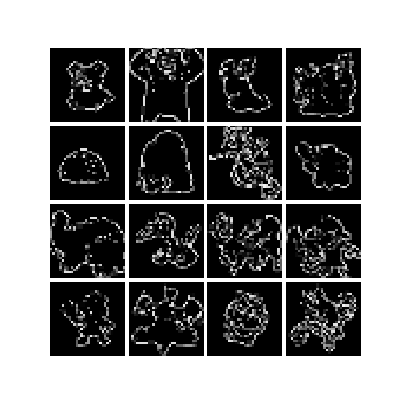
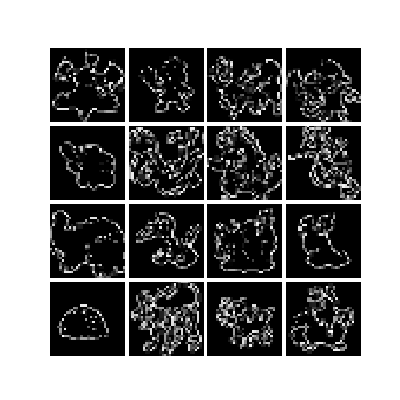
Use DCT as output loss

diff --git a/run.py b/run.py
@@ -1,30 +1,56 @@
 import os, argparse
 import matplotlib.pyplot as plt 
 from keras.models import load_model
+import numpy as np
 
-from image_data import ImageGenerator, plot_multiple
+from image_data import ImageGenerator, plot_multiple, idct_2D
 from models import Im2Im
 
+def get_idct_samples(Y_, shape):
+    Y__ = np.zeros(shape)
+    for i in range(Y_.shape[0]):
+        for j in range(Y_.shape[1]):
+            for k in range(Y_.shape[2]):
+                Y__[i][j][k] = Y_[i][j][k]
+        Y__[i] = idct_2D(Y__[i])
+    
+    return Y__
 
 def run(path_x, path_y, path_y_, path_model, 
-        testing, retrain, grayscale, size, epochs, batch_size):
-
-    shape = (size, size, 1 if grayscale else 3)
-
-    generator_x = ImageGenerator(path_x, batch_size, shape)
-    generator_y = ImageGenerator(path_y, batch_size, shape)
+        testing, retrain, grayscale, size, epochs, batch_size, dct_size):
 
     if testing:
         im2im = load_model(path_model)
+        im2im.summary()
+        print("Saved model loaded:", path_model)
+
+        size = im2im.layers[0].input_shape[1]
+        dct_size = im2im.layers[-1].output_shape[1]
+        input_channels = im2im.layers[0].input_shape[3]
+        output_channels = im2im.layers[-1].output_shape[3]
+
+        in_shape = (size, size, input_channels)
+        out_shape = (dct_size, dct_size, output_channels)
     else:
+        in_shape = (size, size, 1 if grayscale else 3)
+        out_shape = (dct_size, dct_size, 1 if grayscale else 3)
+
         if retrain:
-            im2im = Im2Im(shape)
+            im2im = Im2Im(in_shape, out_shape)
+            print("New Model created.")
         else:
             try:
                 im2im = load_model(path_model)
+                im2im.summary()
+                print("Saved model loaded:", path_model)
             except Exception as e:
                 print('\n',e,'\n')
-                im2im = Im2Im(shape)
+                im2im = Im2Im(in_shape, out_shape)
+            print("New Model created.")
+
+    generator_x = ImageGenerator(path_x, batch_size, in_shape)
+    generator_y = ImageGenerator(path_y, batch_size, in_shape, dct_size)
+
 
     for epoch in range(1 if testing else epochs):
         n_batches = len(os.listdir(path_x))//batch_size
@@ -48,19 +74,28 @@ def run(path_x, path_y, path_y_, path_model,
             plot_multiple(X)
             plt.savefig(os.path.join(path_y_,str(image_name)+'_X.png'))
             plt.close()
-            plot_multiple(Y)
+            # plot_multiple(Y)
+            # plt.savefig(os.path.join(path_y_,str(image_name)+'_dct_Y.png'))
+            # plt.close()
+            # plot_multiple(Y_)
+            # plt.savefig(os.path.join(path_y_,str(image_name)+'_dct_Y_.png'))
+            # plt.close()
+
+            plot_multiple(get_idct_samples(Y, X.shape))
             plt.savefig(os.path.join(path_y_,str(image_name)+'_Y.png'))
             plt.close()
-            plot_multiple(Y_)
-            plt.savefig(os.path.join(path_y_,str(image_name)+'_Y_.png'))
+            plot_multiple(get_idct_samples(Y_, X.shape))
+            plt.savefig(os.path.join(path_y_,str(image_name)+'_Y*.png'))
             plt.close()
-            
-            print('Epoch:',epoch,'>>',batch_id*100//n_batches,'% : ','loss = %.3f' % (loss),end=end)
 
+            print('Epoch:',epoch,'>>',batch_id*100//n_batches,'% : ','loss = %.3f     ' % (loss),end=end)
 
-        if not testing:
-            print('Epoch:',epoch,'>>',' loss = %.3f\t\t' % (loss))
+        if testing:
+            print('Predictions saved to', path_y_)
+        else:
+            print('Epoch:',epoch,'>> 100%',' loss = %.3f\t\t' % (loss))
             im2im.save(path_model)
+            print('Model saved to', path_model)
         
 
 if __name__=='__main__':
@@ -73,12 +108,13 @@ if __name__=='__main__':
 
     parser.add_argument('-t','--testing', action = 'store_true', help = 'whether testing model')
     parser.add_argument('-r','--retrain', action = 'store_true', help = 'retrain model again')
-    parser.add_argument('-g','--grayscale',action = 'store_true', help='whether to train only for gray images')
 
-    parser.add_argument('-s','--size',type=int, default = 32, help='size (width/height) of image')
+    parser.add_argument('-g','--grayscale', action = 'store_true', help='whether to train only for gray images')
+    parser.add_argument('-s','--size', type=int, default = 32, help='size (width/height) of image')
+    parser.add_argument('-d','--dct_size', type=int, default = 10, help='Select first `dct_size` portion of image `size` for output')
 
-    parser.add_argument('-e','--epochs',type=int, default = 1000, help='number of epochs to train')
-    parser.add_argument('-b','--batch_size',type=int, default = 16, help='training batch size')
+    parser.add_argument('-e','--epochs', type=int, default = 1000, help='number of epochs to train')
+    parser.add_argument('-b','--batch_size', type=int, default = 16, help='training batch size')
 
     args = parser.parse_args()
 
@@ -90,6 +126,9 @@ if __name__=='__main__':
 
     if not os.path.exists(args.predictions_folder):
         raise OSError('Folder not found :',args.predictions_folder)
+
+    if args.dct_size > args.size:
+        raise AssertionError('--dct_size (-d) cannot be greater than --size (-s)')
 
     print(args)
 
@@ -103,5 +142,6 @@ if __name__=='__main__':
         args.grayscale,
         args.size,
         args.epochs,
-        args.batch_size
+        args.batch_size,
+        args.dct_size
     )

diff --git a/models.py b/models.py
@@ -6,15 +6,12 @@ from keras.optimizers import SGD
 
 from functools import reduce
 
-STRIDES = (2,2)
+STRIDES = (1,1)
 KERNEL = (7,7)
 
 # LAYERS
-def ConvLayer(filters, kernel = KERNEL, strides = STRIDES, activation = 'relu'):
+def ConvLayer( filters, kernel = KERNEL, strides = STRIDES, activation = 'relu' ):
     return Conv2D ( filters, kernel_size = kernel, padding='same', strides = strides, activation = activation )
-
-def DeConvLayer(filters, kernel = KERNEL, strides = STRIDES, activation = 'relu'):
-    return Conv2DTranspose(filters, kernel_size = kernel, padding='same', strides = strides, activation = activation )
 
 def ConvLayers(in_image, filters, drop_rate = 0.1):
     flow = in_image
@@ -24,43 +21,31 @@ def ConvLayers(in_image, filters, drop_rate = 0.1):
         flow = BatchNormalization () ( flow )
     return flow
 
-def DeConvLayers(in_image, filters, drop_rate = 0.1):
-    flow = in_image
-    for i in range(len(filters)):
-        f = filters[i]
-        if i == len(filters) - 1:
-            flow = DeConvLayer ( f, activation = 'sigmoid' ) ( flow ) 
-        else:
-            flow = DeConvLayer( f ) ( flow )
-            flow = Dropout ( drop_rate ) ( flow )
-            flow = BatchNormalization () ( flow )
-    return flow
-
-
 # Image to Image - Encoder Decoder model
-def Im2Im(im_shape):
-    filters = [32, 64]
-    channels = [im_shape[-1]] + filters
+def Im2Im( in_shape, out_shape ):
+    filters = [32, out_shape[-1]]
+    channels = [in_shape[-1]] + filters
 
     # generator layers
-    G_in = Input ( shape = im_shape ) # input image
+    G_in = Input ( shape = in_shape ) # input image
 
     gen_flow = ConvLayers ( G_in, channels [ 1: ] ) # convolution
 
-    conv_shape = list ( map ( lambda x : int ( x ), gen_flow.shape [ 1: ] ) )
-    units = int ( reduce ( lambda x, y: x * y, conv_shape ) )
+    # conv_shape = list ( map ( lambda x : int ( x ), gen_flow.shape [ 1: ] ) )
+    units = int ( reduce ( lambda x, y: x * y, out_shape ) )
 
     gen_flow = Flatten () ( gen_flow )
-    gen_flow = Dense ( units, activation = 'relu' ) ( gen_flow ) # dense
+    gen_flow = Dense ( units ) ( gen_flow ) # dense
     gen_flow = BatchNormalization () ( gen_flow )
-    gen_flow = Reshape ( conv_shape ) ( gen_flow )
+    gen_flow = Reshape ( out_shape ) ( gen_flow )
 
-    gen_flow = DeConvLayers ( gen_flow, channels [ -1 :: -1 ] [ 1: ] ) #  transpose convolution
     G_out = gen_flow
     
     model = Model(G_in, G_out)
     
-    sgd = SGD(lr = 10,momentum=0.1)
+    sgd = SGD(lr = 0.5,momentum=0.1)
     model.compile(optimizer = sgd,loss = 'mse')
+    
+    model.summary()
 
     return model

diff --git a/image_data.py b/image_data.py
@@ -2,8 +2,18 @@ import cv2
 import os
 import numpy as np
 import matplotlib.pyplot as plt
+from scipy import fftpack
 
-def ImageGenerator(path_x, batch_size, shape):
+def dct_2D(im):
+    return fftpack.dct(T(fftpack.dct(T(im), axis=1, norm='ortho')), axis=1, norm='ortho')
+
+def idct_2D(im):
+    return fftpack.idct(T(fftpack.idct(T(im), axis=1, norm='ortho')), axis=1, norm='ortho')
+
+def T(im):
+    return np.transpose(im, (1, 0, 2))
+
+def ImageGenerator(path_x, batch_size, shape, dct_size = None):
     im_size = shape[:-1]
     channels = shape[-1]
 
@@ -18,16 +28,24 @@ def ImageGenerator(path_x, batch_size, shape):
             else:
                 x = cv2.cvtColor(x, cv2.COLOR_BGR2RGB)
 
+            # perform dct
+            if dct_size != None:
+                x = dct_2D(x)[:dct_size,:dct_size]
 
             X.append(x)
 
-            if len(X)>=batch_size:
-                yield np.array(X)/255.0
+            if len(X) >= batch_size:
+                yield np.array(X)
                 X = []
-            
 
 def flatten_gray(image):
     return np.reshape(image, image.shape[:-1])
+
+def normalized_image(im):
+    mini = np.min(im)
+    im = im - mini
+    maxi = np.max(im)
+    return (im)/maxi
 
 def plot_multiple(samples):
     fig = plt.figure(figsize=(4, 4))
@@ -43,8 +61,8 @@ def plot_multiple(samples):
         ax.set_yticklabels([])
         ax.set_aspect('equal')
         if channels == 1:
-            plt.imshow(flatten_gray(samples[i]), cmap='Greys_r')
+            plt.imshow(normalized_image(flatten_gray(samples[i])), cmap='Greys_r')
         else:
-            plt.imshow(samples[i])
+            plt.imshow(normalized_image(samples[i]))
 
     return fig
